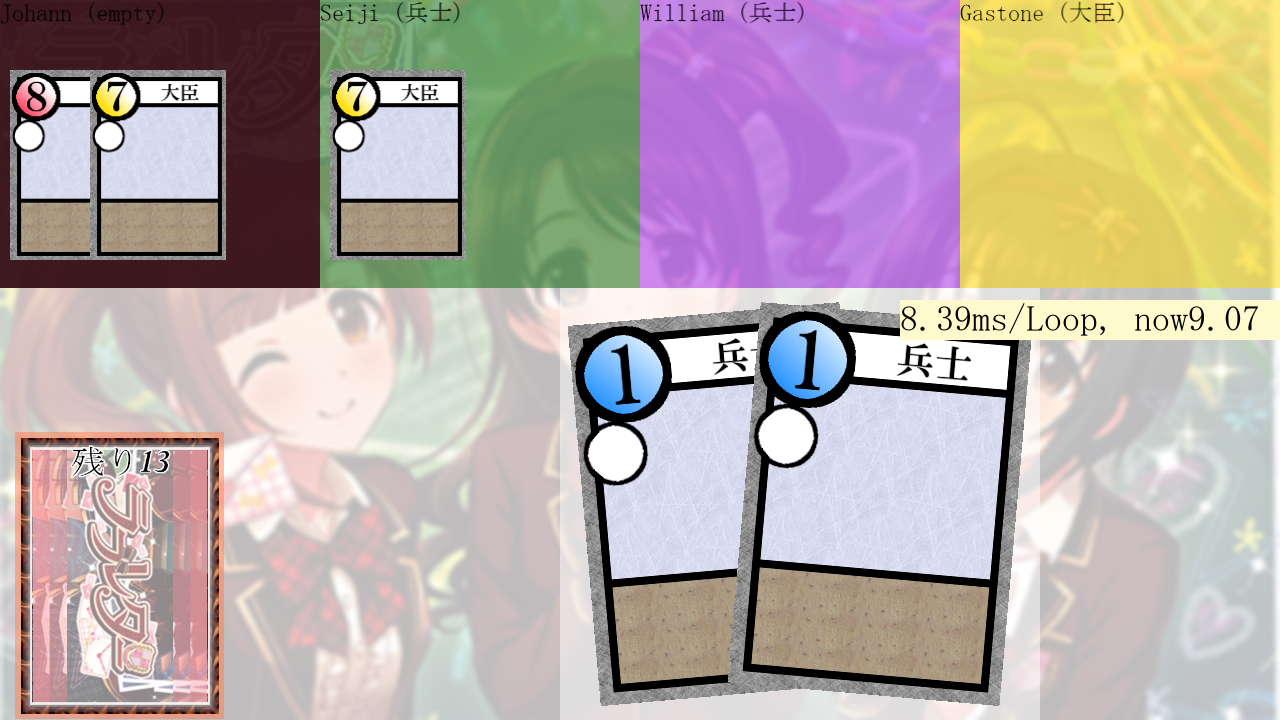
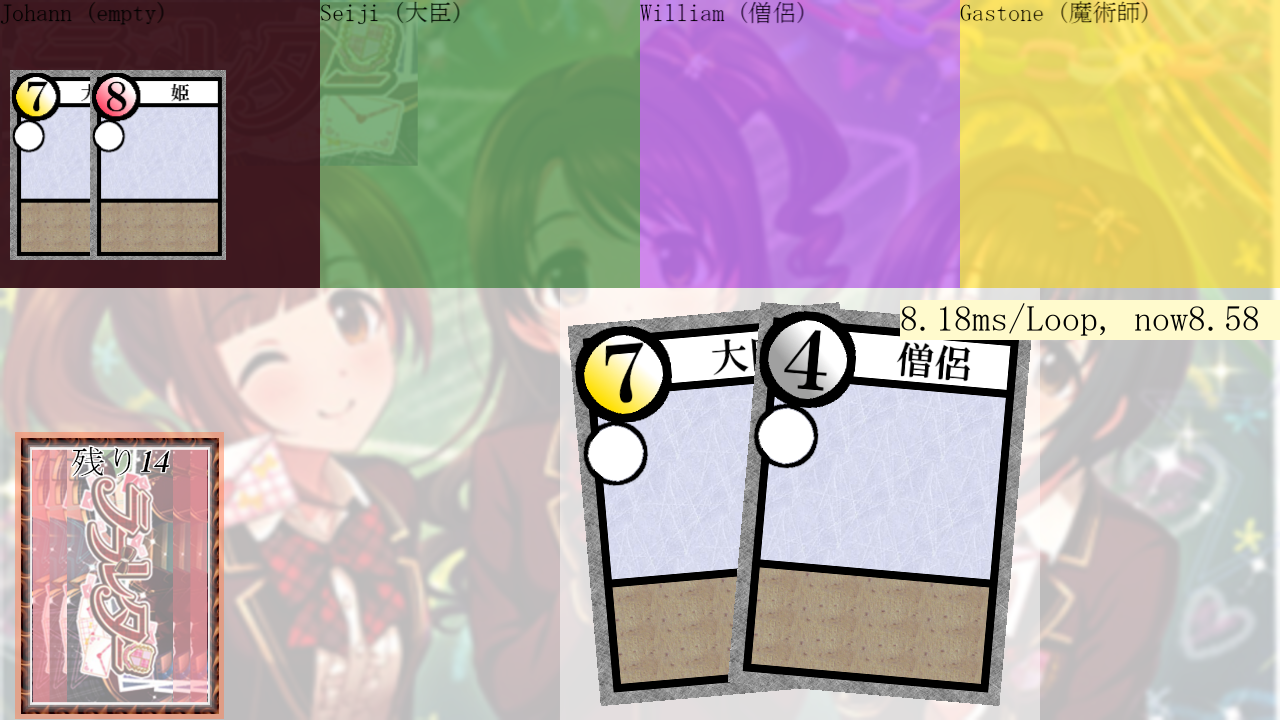
L128:大臣と合わせた手札の強さが１２以上になると脱落する

diff --git a/ll/ctrl/use_kards.py b/ll/ctrl/use_kards.py
@@ -1,11 +1,6 @@
-# from any.font import MS_MINCHO_COL
-# from ctrl.messages import MessagesController
 from ctrl.turn_starts import TurnStartsController
 from model.kard import Kard
 from ptc.bridge import Bridge
-# from view.use_kard_view import UseKardView
-
-# _FONT = 28
 
 from ptc.controller import Controller
 class UseKardsController():
@@ -15,10 +10,6 @@ class UseKardsController():
 
     def action(self) -> None:
         self.bridge.board.use_kard(player=self.bridge.board.turn_player, kard=self.kard)
-        # self.bridge.whileloop(new_view=UseKardView(
-        #     view=self.bridge.view,
-        #     kard=self.kard,
-        # ))
         coroutines = [
             self._use_banpei, self._use_heisi, self._use_douke, self._use_kisi, self._use_souryo,
             self._use_mazyutusi, self._use_syougun, self._use_daizin, self._use_hime
@@ -53,8 +44,3 @@ class UseKardsController():
 
     def _use_hime(self) -> None:
         ...
-        # print("UseKardsController._use_hime", self.bridge.view)
-        # MessagesController(
-        #     bridge=self.bridge,
-        #     img_mes=MS_MINCHO_COL(f"「姫」を捨てたので{self.bridge.board.turn_player.name}は脱落します", _FONT, "black"),
-        # ).action()

diff --git a/ll/model/board.py b/ll/model/board.py
@@ -11,6 +11,7 @@ class Board():
     deck: list[Kard]
     turn_player: Player = field(default_factory=lambda: OBSERVER)
     use_kard_async: Callable[[Player, Kard], None] = lambda p, k : None
+    defeat_by_daizin_async: Callable[[Player], None] = lambda p : None
     diskard_hime_async: Callable[[Player], None] = lambda p : None
 
     def game_start(self) -> None:
@@ -19,7 +20,8 @@ class Board():
     def draw(self, player: Player) -> None:
         player.hands.append(self.deck.pop(0))
         if KARD_DAIZIN in player.hands and sum([kard.rank for kard in player.hands]) >= 12:
-            ...
+            self.defeat_by_daizin_async(player)
+            self.retire(player=player)
 
     def use_kard(self, player: Player, kard: Kard) -> None:
         self.use_kard_async(player, kard)

diff --git a/ll/ctrl/turn_starts.py b/ll/ctrl/turn_starts.py
@@ -20,3 +20,6 @@ class TurnStartsController():
             board_view=self.bridge.view,
             player=self.bridge.board.turn_player,
         ).action()
+        if not self.bridge.board.turn_player.alive:
+            self.bridge.board.advance_to_next_turn()
+            TurnStartsController(bridge=self.bridge).action()
